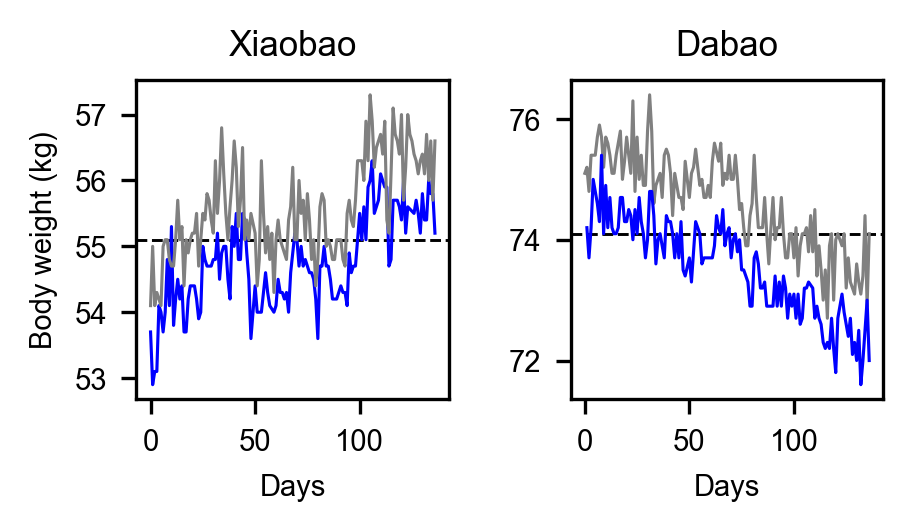
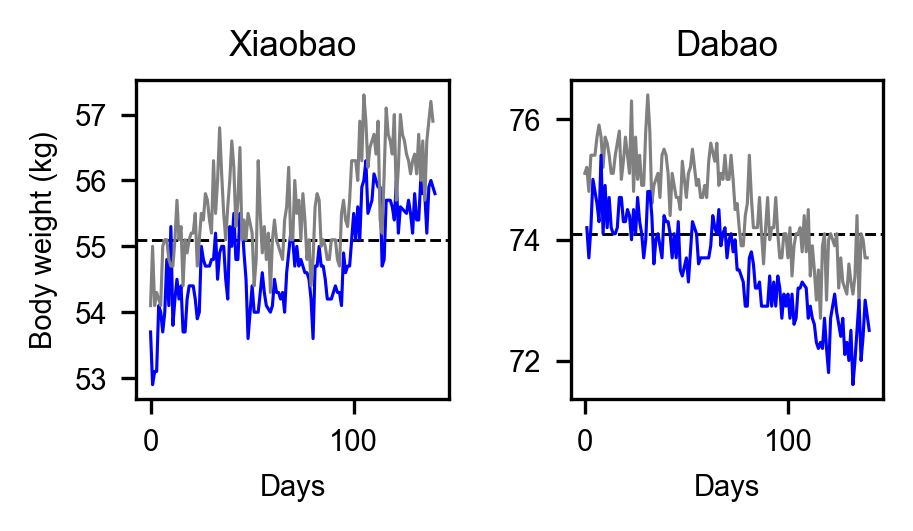
update health stats

diff --git a/health_stats_Di_Shaohe.md b/health_stats_Di_Shaohe.md
@@ -3,7 +3,7 @@ layout: player_stats
 title: Di and Shaohe Health
 author: Shaohe Wang
 author_url: https://scholar.google.com/citations?user=R_-kJV4AAAAJ&hl=en
-date: 2021-08-08
+date: 2021-08-12
 ---
 
 ### 左：吴笛；右：王少鹤
